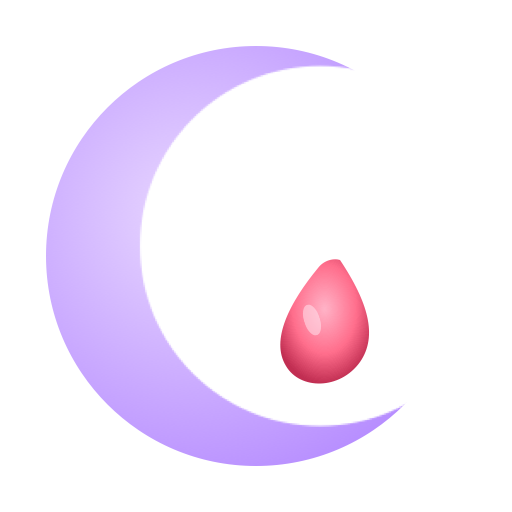
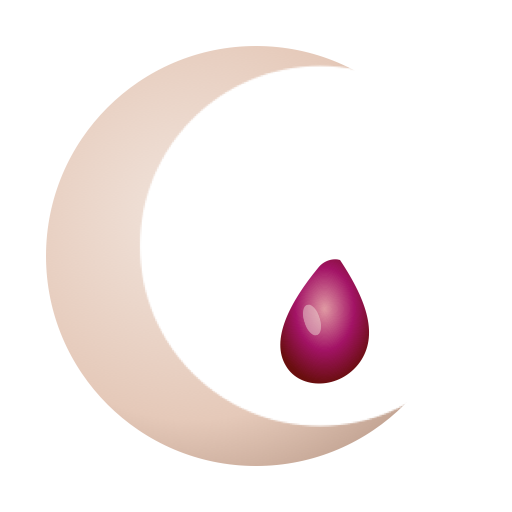
moon: Womben Wellness-inspired palette + typography + archetype framing
- Palette shifted from lavender/purple to wine/cream/terra (deep wine bg,
  warm cream text, magenta accents, gold highlights). Draws on the
  Womben Wellness (Usha Anandi) brand color system.
- Typography: Prata serif for headings + Josefin Sans for body.
- Learn section: added "Your spiritual gift" archetype callout to each
  phase (deep knowing / maiden / mother / wild woman). Inspired by Usha's
  four-personalities-with-spiritual-gifts framework.
- New attribution card in the Learn section crediting Womben Wellness as
  inspiration.
- Tagline updated to "Alchemizing science + the sacred" (Usha's phrase).
- Favicon regenerated: cream/terra crescent + wine blood drop.

Changed region(s): [[0.0625, 0.0625, 0.7812, 0.9375], [0.5312, 0.5, 0.7188, 0.75]]

diff --git a/moon.html b/moon.html
@@ -11,29 +11,30 @@
 <meta name="apple-mobile-web-app-capable" content="yes">
 <meta name="theme-color" content="#1a1036">
 <link rel="preconnect" href="https://fonts.googleapis.com">
-<link href="https://fonts.googleapis.com/css2?family=Lora:wght@400;600;700&family=Nunito:wght@400;500;600;700&display=swap" rel="stylesheet">
+<link href="https://fonts.googleapis.com/css2?family=Prata&family=Josefin+Sans:wght@300;400;500;600;700&display=swap" rel="stylesheet">
 <link rel="stylesheet" href="shared.css">
 <style>
 :root {
-  --moon-bg:     #140a2e;
-  --moon-bg2:    #251647;
-  --moon-card:   #1f1340;
-  --moon-card2:  #2a1b56;
-  --moon-line:   #3a2a6b;
-  --moon-text:   #f4ecff;
-  --moon-dim:    #b9a8de;
-  --moon-accent: #e9d8ff;
-  --moon-glow:   #b58bff;
-  --moon-pink:   #ff8fb1;
-  --moon-pink2:  #ffb3c7;
-  --moon-gold:   #ffd98b;
-  --moon-teal:   #8fe3d4;
-  --moon-red:    #ff6e8c;
+  /* Palette informed by Womben Wellness (Usha Anandi) — wine + terra + cream */
+  --moon-bg:     #2a0a14;
+  --moon-bg2:    #3d1823;
+  --moon-card:   #34121e;
+  --moon-card2:  #4a1c29;
+  --moon-line:   #5e2833;
+  --moon-text:   #f1e4dc;
+  --moon-dim:    #c5a89f;
+  --moon-accent: #f1e4dc;
+  --moon-glow:   #a31366;
+  --moon-pink:   #c5556b;
+  --moon-pink2:  #e09aa3;
+  --moon-gold:   #c0830b;
+  --moon-teal:   #aa7d56;
+  --moon-red:    #690e0e;
 }
 * { box-sizing: border-box; }
 html, body { margin:0; padding:0; }
 body {
-  font-family: 'Nunito', sans-serif;
+  font-family: 'Josefin Sans', sans-serif;
   background: radial-gradient(ellipse at top, var(--moon-bg2) 0%, var(--moon-bg) 60%);
   color: var(--moon-text);
   min-height: 100vh;
@@ -57,7 +58,7 @@ body::before {
   pointer-events: none;
   z-index: 0;
 }
-h1, h2, h3 { font-family: 'Lora', serif; font-weight: 600; margin: 0; color: var(--moon-text); }
+h1, h2, h3 { font-family: 'Prata', serif; font-weight: 600; margin: 0; color: var(--moon-text); }
 .container { max-width: 560px; margin: 0 auto; padding: 16px; position: relative; z-index: 1; }
 
 .top-bar {
@@ -97,7 +98,7 @@ h1, h2, h3 { font-family: 'Lora', serif; font-weight: 600; margin: 0; color: var
   filter: drop-shadow(0 0 22px rgba(181,139,255,0.55));
 }
 .today-date { font-size: 0.8rem; color: var(--moon-dim); letter-spacing: 1px; text-transform: uppercase; margin-bottom: 4px; }
-.today-name { font-family: 'Lora', serif; font-size: 1.4rem; font-weight: 600; margin-bottom: 6px; }
+.today-name { font-family: 'Prata', serif; font-size: 1.4rem; font-weight: 600; margin-bottom: 6px; }
 .today-illum { font-size: 0.8rem; color: var(--moon-dim); margin-bottom: 14px; }
 .today-cycle {
   display: inline-flex; flex-direction: column; gap: 2px;
@@ -106,7 +107,7 @@ h1, h2, h3 { font-family: 'Lora', serif; font-weight: 600; margin: 0; color: var
   border: 1px solid var(--moon-line);
   border-radius: 14px;
 }
-.today-cycle .day { font-size: 1.5rem; font-weight: 700; font-family: 'Lora', serif; color: var(--moon-accent); }
+.today-cycle .day { font-size: 1.5rem; font-weight: 700; font-family: 'Prata', serif; color: var(--moon-accent); }
 .today-cycle .season { font-size: 0.75rem; color: var(--moon-dim); letter-spacing: 0.5px; text-transform: uppercase; }
 
 /* Quick-log button on today card */
@@ -122,7 +123,7 @@ h1, h2, h3 { font-family: 'Lora', serif; font-weight: 600; margin: 0; color: var
 
 /* Calendar */
 .cal-header { display:flex; justify-content:space-between; align-items:center; margin-bottom: 12px; }
-.cal-header h3 { font-size: 1rem; font-family: 'Lora', serif; }
+.cal-header h3 { font-size: 1rem; font-family: 'Prata', serif; }
 .cal-nav { display: flex; gap: 4px; }
 .cal-nav button {
   background: rgba(255,255,255,0.07); border: 1px solid var(--moon-line);
@@ -205,7 +206,7 @@ h1, h2, h3 { font-family: 'Lora', serif; font-weight: 600; margin: 0; color: var
   border: 1px solid rgba(181,139,255,0.2);
   border-radius: 20px 20px 0 0; padding: 22px;
 }
-.herb-modal h3 { font-family: 'Lora', serif; font-size: 1.4rem; margin: 0 0 2px; color: var(--moon-accent); }
+.herb-modal h3 { font-family: 'Prata', serif; font-size: 1.4rem; margin: 0 0 2px; color: var(--moon-accent); }
 .herb-modal .sci { font-style: italic; font-size: 0.85rem; color: var(--moon-dim); margin-bottom: 14px; }
 .herb-modal .field { margin: 12px 0; font-size: 0.92rem; line-height: 1.5; }
 .herb-modal .field .lbl {
@@ -289,6 +290,23 @@ h1, h2, h3 { font-family: 'Lora', serif; font-weight: 600; margin: 0; color: var
 .learn-body li { margin-bottom: 4px; }
 .learn-body strong { color: var(--moon-accent); font-weight: 600; }
 .learn-body em.witch { color: var(--moon-pink2); font-style: normal; font-weight: 600; }
+.learn-body .phase-gift {
+  margin: 4px 0 14px; padding: 11px 14px;
+  background: rgba(192, 131, 11, 0.1);
+  border-left: 3px solid var(--moon-gold);
+  border-radius: 0 10px 10px 0;
+  font-size: 0.9rem; line-height: 1.5;
+  color: var(--moon-text);
+}
+.learn-body .phase-gift strong { color: var(--moon-gold); font-weight: 600; }
+
+.attribution-card {
+  margin-top: 16px; padding: 14px 16px;
+  background: rgba(241, 228, 220, 0.05); border: 1px solid rgba(241, 228, 220, 0.1);
+  border-radius: 10px;
+  font-size: 0.8rem; color: var(--moon-dim); line-height: 1.55;
+}
+.attribution-card a { color: var(--moon-accent); text-decoration: underline; }
 .cal-day.projected {
   background: repeating-linear-gradient(45deg, rgba(255,110,140,0.22), rgba(255,110,140,0.22) 3px, transparent 3px, transparent 7px);
   color: var(--moon-pink2); font-weight: 700;
@@ -324,10 +342,10 @@ input[type=date], input[type=password], input[type=number], input[type=text], te
   width: 100%; padding: 11px 13px;
   border: 1px solid var(--moon-line); border-radius: 12px;
   background: rgba(0,0,0,0.2); color: var(--moon-text);
-  font-family: 'Nunito', sans-serif; font-size: 0.95rem;
+  font-family: 'Josefin Sans', sans-serif; font-size: 0.95rem;
 }
 input:focus, textarea:focus { outline: none; border-color: var(--moon-glow); }
-textarea { min-height: 80px; resize: vertical; font-family: 'Nunito', sans-serif; }
+textarea { min-height: 80px; resize: vertical; font-family: 'Josefin Sans', sans-serif; }
 .form-field { margin-bottom: 10px; flex: 1; }
 .row { display: flex; gap: 8px; }
 .row.wrap { flex-wrap: wrap; }
@@ -335,7 +353,7 @@ textarea { min-height: 80px; resize: vertical; font-family: 'Nunito', sans-serif
 .btn {
   padding: 11px 18px; border: none; border-radius: 12px;
   background: var(--moon-glow); color: var(--moon-bg);
-  font-family: 'Nunito', sans-serif; font-weight: 700; cursor: pointer; font-size: 0.9rem;
+  font-family: 'Josefin Sans', sans-serif; font-weight: 700; cursor: pointer; font-size: 0.9rem;
 }
 .btn:hover { filter: brightness(1.08); }
 .btn.secondary { background: rgba(255,255,255,0.08); color: var(--moon-text); border: 1px solid var(--moon-line); }
@@ -385,7 +403,7 @@ textarea { min-height: 80px; resize: vertical; font-family: 'Nunito', sans-serif
 .sheet-head .left { display: flex; align-items: center; gap: 12px; }
 .sheet-head .phase { font-size: 2rem; filter: drop-shadow(0 0 10px rgba(181,139,255,0.5)); }
 .sheet-head .info { line-height: 1.2; }
-.sheet-head .info .d { font-family: 'Lora', serif; font-size: 1.15rem; font-weight: 600; }
+.sheet-head .info .d { font-family: 'Prata', serif; font-size: 1.15rem; font-weight: 600; }
 .sheet-head .info .p { font-size: 0.75rem; color: var(--moon-dim); }
 .sheet-head .close {
   background: rgba(255,255,255,0.07); border: 1px solid var(--moon-line);
@@ -587,9 +605,12 @@ textarea { min-height: 80px; resize: vertical; font-family: 'Nunito', sans-serif
   <!-- Learn: body literacy -->
   <div class="card">
     <h3>🌸 Learn your body</h3>
-    <div style="font-size:0.82rem;color:var(--moon-dim);margin-bottom:10px;">Ms. Frizzle meets plant medicine. Tap a phase.</div>
+    <div style="font-size:0.82rem;color:var(--moon-dim);margin-bottom:10px;font-style:italic;">Alchemizing science + the sacred. Tap a phase.</div>
     <div class="learn-nav" id="learn-nav"></div>
     <div class="learn-body" id="learn-body"></div>
+    <div class="attribution-card">
+      Phase-as-archetype teachings inspired by Usha Anandi of <a href="https://www.wombenwellness.com/" target="_blank" rel="noopener">Womben Wellness</a>. Physiology follows peer-reviewed reproductive medicine. Herbal suggestions draw on Western folk tradition. Informational only — not medical advice.
+    </div>
   </div>
 
   <!-- Log a period -->
@@ -873,6 +894,7 @@ const LEARN_CONTENT = {
   winter: {
     emoji: '🌑', label: 'Winter', title: 'Inner winter · menstrual · days 1-5',
     html: `
+      <p class="phase-gift"><strong>Your spiritual gift:</strong> deep knowing. The veil is thin. Listen to what your body says when no one else is asking.</p>
       <h4>What's up in there</h4>
       <p>Day 1 is the day you bleed. Your uterus is peeling off its plush lining — the cozy velvet crib it built last month in case an embryo needed a home. No embryo moved in, so the eviction party starts today. <em class="witch">Totally normal. Totally magic.</em></p>
       <h4>The hormones</h4>
@@ -893,6 +915,7 @@ const LEARN_CONTENT = {
   spring: {
     emoji: '🌱', label: 'Spring', title: 'Inner spring · follicular · days 6-13',
     html: `
+      <p class="phase-gift"><strong>Your spiritual gift:</strong> the maiden. Curious, open, willing to start. This is your creation phase — plant seeds of every kind.</p>
       <h4>What's up in there</h4>
       <p>Period's done. Your uterus is building a fresh lining — brand new velvet nursery going up floor by floor. Cervix is rising, opening slightly, making sticky-then-creamy mucus.</p>
       <h4>The hormones</h4>
@@ -913,6 +936,7 @@ const LEARN_CONTENT = {
   summer: {
     emoji: '☀', label: 'Summer', title: 'Inner summer · ovulation · days 14-16',
     html: `
+      <p class="phase-gift"><strong>Your spiritual gift:</strong> the mother. Radiant, magnetic, generous. People feel you. Ask, speak, lead — the world is listening.</p>
       <h4>What's up in there — THE big day</h4>
       <p>The dominant follicle has grown to ~2cm (almost an inch). Estrogen hits peak. Your pituitary gland says <em class="witch">"OK, GO"</em> and releases a flood of <strong>LH</strong> — the Luteinizing Hormone surge.</p>
       <p>About 24-36 hours after the LH surge starts, the follicle <strong>BURSTS</strong>. It literally ruptures on the surface of your ovary and releases its egg. 🥚✨</p>
@@ -934,6 +958,7 @@ const LEARN_CONTENT = {
   autumn: {
     emoji: '🍂', label: 'Autumn', title: 'Inner autumn · luteal · days 17-28',
     html: `
+      <p class="phase-gift"><strong>Your spiritual gift:</strong> the wild woman. Discerning, honest, finishing what needs finished. Your truth-teller is loudest here — let her.</p>
       <h4>What's up in there</h4>
       <p>The empty follicle that released your egg has transformed into the <strong>corpus luteum</strong> — a temporary hormone-making gland. Its one job: pump out progesterone to keep your uterine lining cushy and nesting in case an embryo implants.</p>
       <p>No pregnancy? Corpus luteum dies around day 26-28. Progesterone crashes. Lining has no support, starts shedding. Period begins. Cycle restarts.</p>
@@ -993,7 +1018,7 @@ function renderLearn() {
            '<span class="emoji">' + c.emoji + '</span>' + c.label + '</div>';
   }).join('');
   const c = LEARN_CONTENT[learnTab];
-  body.innerHTML = '<h3 style="font-family:Lora,serif;font-size:1.1rem;margin:0 0 12px;color:var(--moon-accent);">' + c.title + '</h3>' + c.html;
+  body.innerHTML = '<h3 style="font-family:Prata,serif;font-size:1.15rem;margin:0 0 12px;color:var(--moon-accent);letter-spacing:0.3px;">' + c.title + '</h3>' + c.html;
 }
 function setLearnTab(k) { learnTab = k; renderLearn(); }
 
